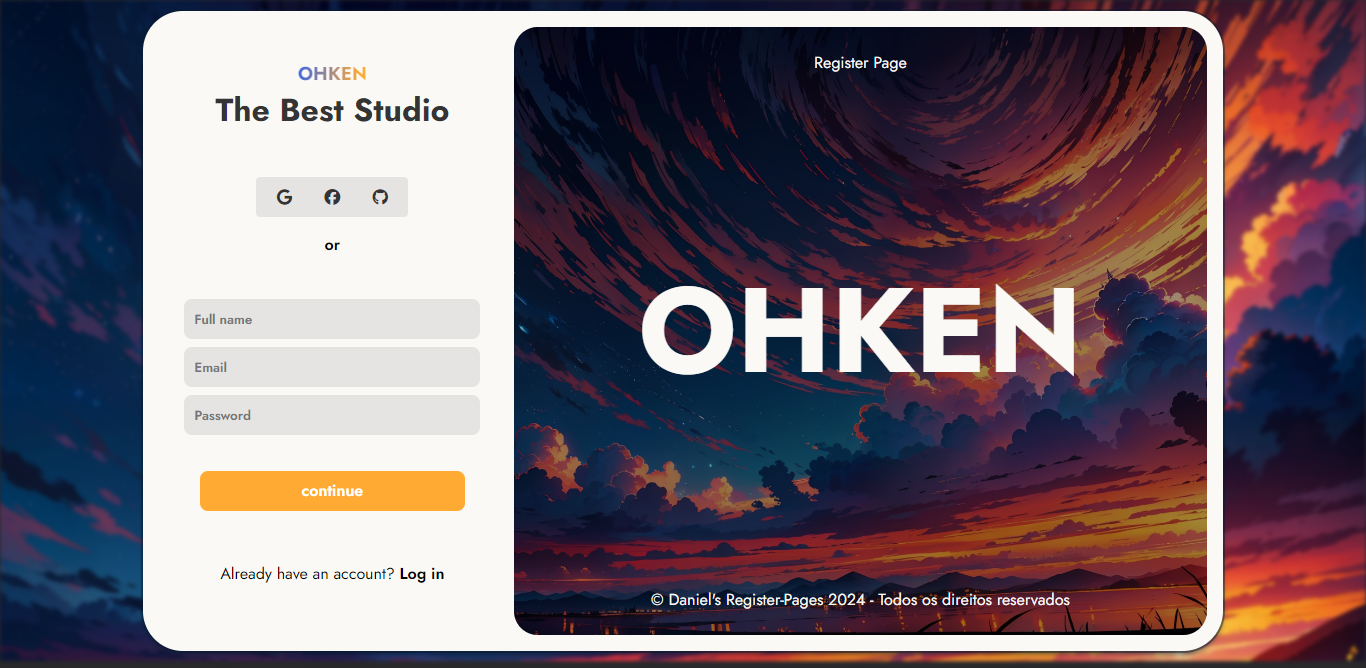
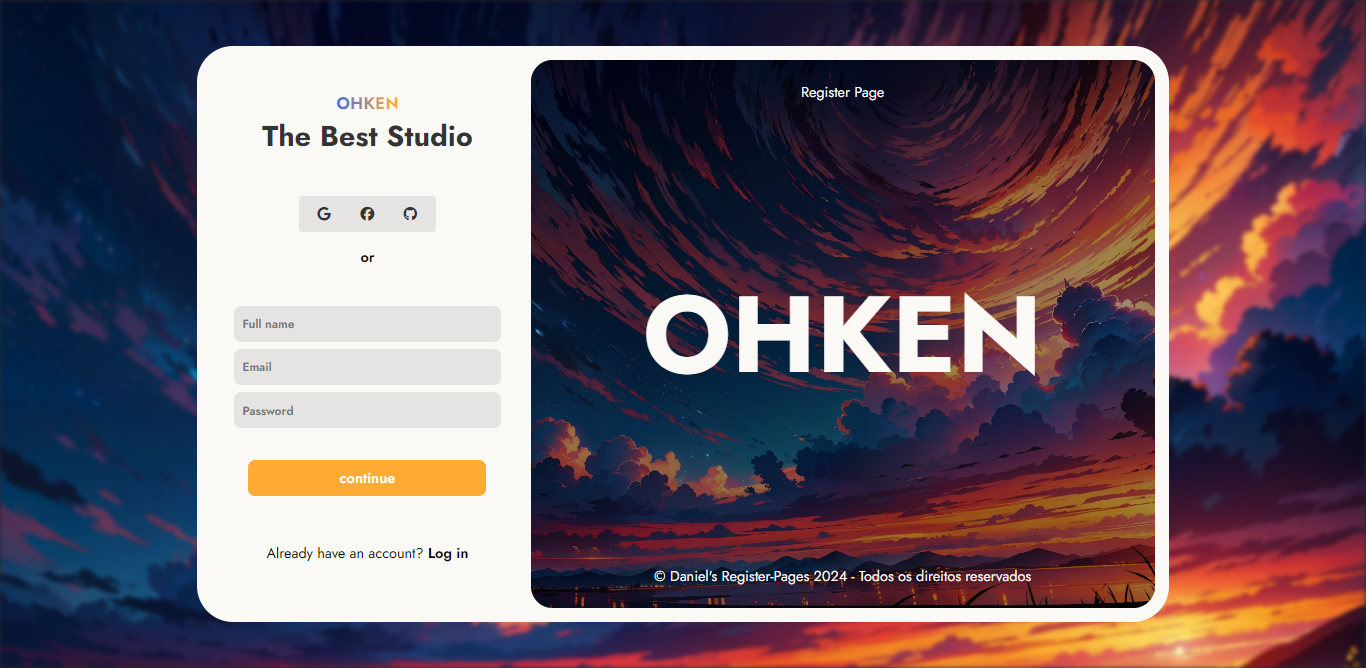
add Finalizado

diff --git a/style.css b/style.css
@@ -14,7 +14,7 @@
 }
 
 body {
-  height: 99vh;
+  height: 100vh;
   padding: 0;
   margin: 0;
   display: grid;
@@ -35,40 +35,39 @@ box {
   gap: 8px;
   grid-template-areas: "M B";
   padding: 16px;
-  box-shadow: rgba(6, 24, 44, 0.4) 0px 0px 0px 2px, rgba(6, 24, 44, 0.65) 0px 4px 6px -1px, rgba(255, 255, 255, 0.08) 0px 1px 0px inset;
 }
-box main {
+box form.main {
   padding: 16px 8px;
   grid-area: M;
   display: grid;
   align-items: center;
 }
-box main .titleMain {
+box form.main .titleMain {
   display: flex;
   flex-direction: column;
   align-items: center;
 }
-box main .titleMain h3 {
+box form.main .titleMain h3 {
   margin: 0;
   font-weight: 640;
   background-image: linear-gradient(90deg, royalblue 0%, #ffaa33 90%); /* Gradiente de laranja para vermelho */
   -webkit-background-clip: text; /* Aplica o gradiente dentro do texto */
   color: transparent; /* Torna o texto transparente para mostrar o gradiente por trás */
 }
-box main .titleMain p {
+box form.main .titleMain p {
   margin: 0;
   font-weight: 640;
   font-size: 32px;
   color: #343434;
 }
-box main .extra {
+box form.main .extra {
   margin-top: 8px;
   display: flex;
   flex-direction: column;
   align-items: center;
   justify-content: center;
 }
-box main .extra div {
+box form.main .extra div {
   height: 40px;
   display: flex;
   align-items: center;
@@ -79,7 +78,7 @@ box main .extra div {
   justify-self: center;
   background-color: #e5e4e2;
 }
-box main .extra button {
+box form.main .extra button {
   width: 40px;
   height: 32px;
   border-radius: 4px;
@@ -90,22 +89,23 @@ box main .extra button {
   cursor: pointer;
   background-color: transparent;
 }
-box main .extra button:hover {
+box form.main .extra button:hover {
   background-color: #faf9f6;
 }
-box main .extra span {
+box form.main .extra span {
   margin-top: 16px;
   font-weight: 600;
 }
-box main .inputField {
+box form.main .inputField {
   margin-top: 8px;
   display: flex;
   flex-direction: column;
   align-items: center;
   gap: 8px;
 }
-box main .inputField input[type=text],
-box main .inputField input[type=password] {
+box form.main .inputField input[type=text],
+box form.main .inputField input[type=email],
+box form.main .inputField input[type=password] {
   width: 296px;
   height: 40px;
   padding: 8px;
@@ -116,12 +116,13 @@ box main .inputField input[type=password] {
   transition: 0.2s;
   font-weight: 600;
 }
-box main .inputField input[type=text]:focus,
-box main .inputField input[type=password]:focus {
+box form.main .inputField input[type=text]:focus,
+box form.main .inputField input[type=email]:focus,
+box form.main .inputField input[type=password]:focus {
   transition: 0.3s;
   border: 2px solid #ffaa33;
 }
-box main button.continue {
+box form.main button.continue {
   height: 40px;
   width: 80%;
   justify-self: center;
@@ -134,11 +135,11 @@ box main button.continue {
   font-weight: 560;
   cursor: pointer;
 }
-box main .adviceLogin {
+box form.main .adviceLogin {
   align-self: center;
   justify-self: center;
 }
-box main .adviceLogin a {
+box form.main .adviceLogin a {
   font-weight: 600;
 }
 box .overBanner {
@@ -177,5 +178,6 @@ box .banner img {
   background-color: #6082b6;
   background-image: url("wallpapersden.com_ai-magical-sunset-orange-x-blue_1952x1120.jpg");
   background-size: cover;
-  filter: blur(2px);
+  filter: blur(2.4px);
+  position: absolute;
 }/*# sourceMappingURL=style.css.map */

diff --git a/style.scss b/style.scss
@@ -32,7 +32,7 @@ $vFont-Color: #343434;
 }
 
 body {
-	height: 99vh;
+	height: 100vh;
 	padding: 0;
 	margin: 0;
 	display: grid;
@@ -53,11 +53,11 @@ box {
 	gap: 8px;
 	grid-template-areas: 'M B';
 	padding: $nPadding * 2;
-	box-shadow: rgba(6, 24, 44, 0.4) 0px 0px 0px 2px,
-		rgba(6, 24, 44, 0.65) 0px 4px 6px -1px,
-		rgba(255, 255, 255, 0.08) 0px 1px 0px inset;
+	// box-shadow: rgba(6, 24, 44, 0.4) 0px 0px 0px 2px,
+	// 	rgba(6, 24, 44, 0.65) 0px 4px 6px -1px,
+	// 	rgba(255, 255, 255, 0.08) 0px 1px 0px inset;
 
-	main {
+	form.main {
 		padding: $nPadding * 2 $nPadding;
 		grid-area: M;
 		display: grid;
@@ -124,6 +124,7 @@ box {
 			gap: 8px;
 
 			input[type='text'],
+			input[type='email'],
 			input[type='password'] {
 				width: 296px;
 				height: 40px;
@@ -202,5 +203,6 @@ box {
 	background-color: #6082b6;
 	background-image: url('wallpapersden.com_ai-magical-sunset-orange-x-blue_1952x1120.jpg');
 	background-size: cover;
-	filter: blur(2px);
+	filter: blur(2.4px);
+	position: absolute;
 }

diff --git a/index.html b/index.html
@@ -12,7 +12,7 @@
 	</head>
 	<body>
 		<box>
-			<main>
+			<form class="main">
 				<div class="titleMain">
 					<h3>OHKEN</h3>
 					<p>The Best Studio</p>
@@ -27,12 +27,12 @@
 				</div>
 				<div class="inputField">
 					<input type="text" name="" id="" placeholder="Full name" />
-					<input type="text" name="" id="" placeholder="Email" />
+					<input type="email" name="" id="" placeholder="Email" />
 					<input type="password" placeholder="Password" />
 				</div>
 				<button class="continue">continue</button>
 				<p class="adviceLogin">Already have an account? <a>Log in</a></p>
-			</main>
+			</form>
 			<div class="overBanner">
             <span>Register Page</span>
             <h1>OHKEN</h1>
